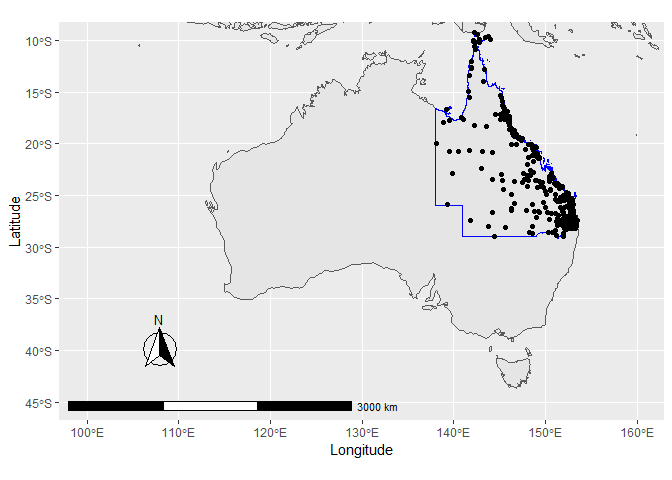
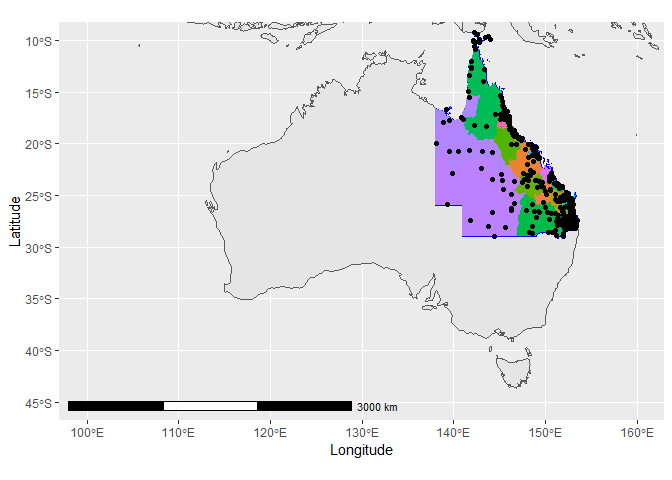
add spatial join from interpolation data to SA2s
reduce cell size of grid to create more granular interpolations. But should be able to join polygons of same SA-level to reduce the need for this granularity

Changed region(s): [[0.625, 0.0938, 0.8438, 0.5], [0.2188, 0.6562, 0.2812, 0.75]]

diff --git a/iTRAQI.md b/iTRAQI.md
@@ -4,7 +4,14 @@ iTRAQI
 
 #### resources used:
 
--   kriging (<https://rpubs.com/nabilabd/118172>)
+-   kriging <https://rpubs.com/nabilabd/118172>
+-   plots <https://r-spatial.github.io/sf/articles/sf5.html>
+-   understanding crs
+    <https://www.earthdatascience.org/courses/earth-analytics/spatial-data-r/understand-epsg-wkt-and-other-crs-definition-file-types/>
+-   changing crs
+    <https://stackoverflow.com/questions/50372533/changing-crs-of-a-sf-object>
+-   spatial aggregations
+    <https://cengel.github.io/R-spatial/spatialops.html>
 
 # load inputs
 
@@ -16,7 +23,7 @@ qld_bounary <- st_read("input/qld_state_polygon_shp/QLD_STATE_POLYGON_shp.shp")
 ```
 
     ## Reading layer `QLD_STATE_POLYGON_shp' from data source 
-    ##   `C:\Users\n10891277\OneDrive - Queensland University of Technology\Documents\R_projects\SC_TRAUMA\iTRAQI\input\qld_state_polygon_shp\QLD_STATE_POLYGON_shp.shp' 
+    ##   `C:\Users\Rex\Documents\R_projects\iTRAQI\input\qld_state_polygon_shp\QLD_STATE_POLYGON_shp.shp' 
     ##   using driver `ESRI Shapefile'
     ## Simple feature collection with 2031 features and 6 fields
     ## Geometry type: POLYGON
@@ -29,7 +36,7 @@ qld_SAs <- st_read("input/qld_sa_zones/MB_2016_QLD.shp")
 ```
 
     ## Reading layer `MB_2016_QLD' from data source 
-    ##   `C:\Users\n10891277\OneDrive - Queensland University of Technology\Documents\R_projects\SC_TRAUMA\iTRAQI\input\qld_sa_zones\MB_2016_QLD.shp' 
+    ##   `C:\Users\Rex\Documents\R_projects\iTRAQI\input\qld_sa_zones\MB_2016_QLD.shp' 
     ##   using driver `ESRI Shapefile'
     ## replacing null geometries with empty geometries
     ## Simple feature collection with 69764 features and 16 fields (with 25 geometries empty)
@@ -41,8 +48,9 @@ qld_SAs <- st_read("input/qld_sa_zones/MB_2016_QLD.shp")
 ``` r
 # ggplot(data = world) +
 #   geom_sf() +
-#   geom_sf(data=qld_SAs, aes(color=SA2_MAIN16)) +
-#   coord_sf(xlim = c(100.00, 160.00), ylim = c(-45.00, -10.00), expand = T) 
+#   geom_sf(data=qld_SAs, aes(fill=SA3_NAME16), col = NA) +
+#   coord_sf(xlim = c(100.00, 160.00), ylim = c(-45.00, -10.00), expand = T) + 
+#   guides(fill="none")
 ```
 
 # base map and points
@@ -53,12 +61,11 @@ ggplot(data = world) +
   geom_sf() +
   geom_sf(data=qld_bounary, color="blue") +
   labs( x = "Longitude", y = "Latitude") +
-  coord_sf(xlim = c(100.00, 160.00), ylim = c(-45.00, -10.00), expand = T) +
   annotation_scale(location = "bl", width_hint = 0.5) +
-  annotation_north_arrow(location = "bl", which_north = "true", 
-                         pad_x = unit(0.75, "in"), pad_y = unit(0.5, "in"),
-                         style = north_arrow_fancy_orienteering) +
-  geom_point(data=as.data.frame(df_times), aes(x,y))
+  geom_sf(data=qld_SAs, aes(fill=SA3_NAME16), col = NA) +
+  geom_point(data=as.data.frame(df_times), aes(x,y))+ 
+  guides(fill="none") +
+  coord_sf(xlim = c(100.00, 160.00), ylim = c(-45.00, -10.00), expand = T)
 ```
 
     ## Scale on map varies by more than 10%, scale bar may be inaccurate
@@ -107,7 +114,7 @@ lzn_kriged <- krige(acute_time ~ 1, df_times, pnts, model=lzn_fit)%>%
     ## [using ordinary kriging]
 
 ``` r
-lzn_kriged  %>%
+lzn_kriged %>%
   ggplot(aes(X, Y)) + 
   geom_tile(aes(fill=var1.pred)) + 
   coord_equal()+
@@ -135,3 +142,45 @@ ggplot(data = world) +
 ![](iTRAQI_files/figure-gfm/unnamed-chunk-6-1.png)<!-- -->
 
 # spatial join from SA1 and SA2 polygons to interpolated values
+
+``` r
+coordinates(lzn_kriged) <- ~ X + Y
+lzn_kriged_sf <- st_as_sf(lzn_kriged)
+
+qld_SAs <- st_transform(qld_SAs, crs = 4326)
+lzn_kriged_sf <- st_set_crs(lzn_kriged_sf, 4326)
+lzn_kriged_sf <- st_transform(lzn_kriged_sf, crs = 4326)
+
+test <- st_join(qld_SAs, lzn_kriged_sf)
+
+test2 <- 
+  test %>% 
+  na.omit() %>%
+  group_by(SA2_NAME16) %>%
+  mutate(mean=mean(var1.pred, na.omit=TRUE)) %>% 
+  ungroup()
+
+length(unique(test$SA2_NAME16))
+```
+
+    ## [1] 530
+
+``` r
+length(unique(test2$SA2_NAME16))
+```
+
+    ## [1] 188
+
+``` r
+ggplot(data = world) +
+  geom_sf() +
+  geom_sf(data=test2, aes(fill=mean), col = NA) +
+  # coord_sf(xlim = c(100.00, 160.00), ylim = c(-45.00, -10.00), expand = T) +
+  coord_sf(xlim = c(138, 153.00), ylim = c(-30.00, -10.00), expand = T) +
+  guides(fill="none") +
+  scale_fill_gradient(low = "yellow", high="red")
+```
+
+![](iTRAQI_files/figure-gfm/unnamed-chunk-7-1.png)<!-- -->
+
+# try to join the SA1 polygons together: <https://gis.stackexchange.com/questions/63577/joining-polygons-in-r>
